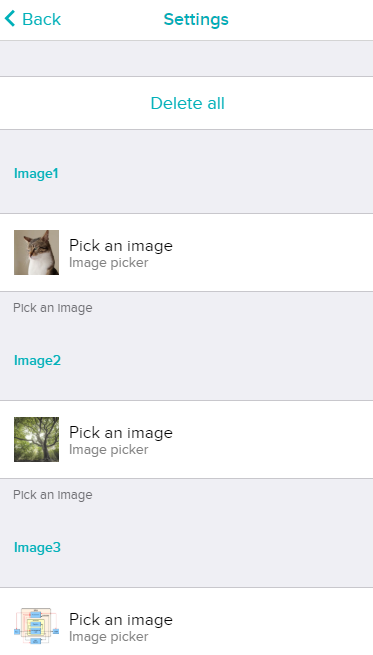
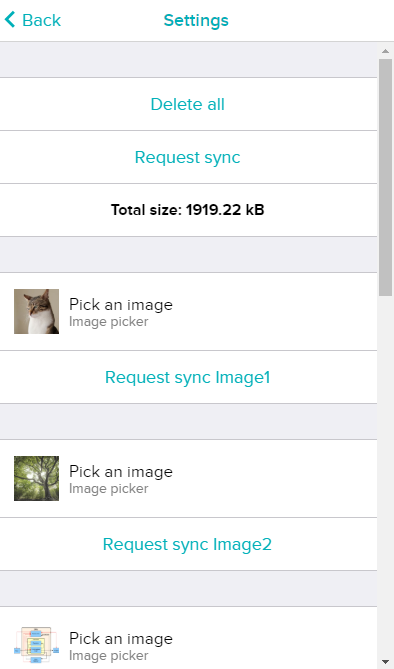
new list, settings changed

diff --git a/app/index.js b/app/index.js
@@ -10,11 +10,22 @@ import * as messaging from "messaging";
 const list = document.getElementById("myList");
 const items = list.getElementsByClassName("list-item");
 items.forEach((element, index) => {
-  var touch = element.getElementById("touch");
-  var text = element.getElementById("text");
-  if(touch != null) {
-    touch.onclick = function(evt) {
-      navigation_goToImageView(text.text);
+  var img1 = element.getElementById("img1");
+  if(img1 != null) {
+    img1.onclick = function(evt) {
+      navigation_goToImageView(img1.href);
+    };
+  }
+  var img2 = element.getElementById("img2");
+  if(img2 != null) {
+    img2.onclick = function(evt) {
+      navigation_goToImageView(img2.href);
+    };
+  }
+  var img3 = element.getElementById("img3");
+  if(img3 != null) {
+    img3.onclick = function(evt) {
+      navigation_goToImageView(img3.href);
     };
   }
 });
@@ -50,8 +61,10 @@ function navigation_goToListView() {
 }
 navigation_goToListView();
 
-function navigation_goToImageView(img_name) {
-  console.log("Go to image view [" + img_name + "]");
+function navigation_goToImageView(img_href) {
+  console.log("Go to image view [" + img_href + "]");
+  const img_name = img_href.substring(img_href.lastIndexOf("/"), img_href.lastIndexOf("."));
+  console.log("Image name: " + img_name);
   list_action.style.display = "none";
   image_action.style.display = "inline";  
   
@@ -112,11 +125,11 @@ function refreshList() {
     var dv = String(dirIter.value);
     if(strStartsWith(dv, "Image")) {
       var name = dv.split(".")[0];
-      var text_item = list_items[index + 1].getElementById("text");
-      text_item.text = name;
-      var img_item = list_items[index + 1].getElementById("img");
+      var img_index = index % 3 + 1;
+      var list_item_index = Math.floor(index / 3);
+      var img_item = list_items[list_item_index + 1].getElementById("img" + img_index);
       img_item.href = "/private/data/"+name+".txi";
-      list_items[index + 1].style.display = "inline";
+      list_items[list_item_index + 1].style.display = "inline";
     }
     index++;
   }
@@ -126,12 +139,17 @@ function refreshList() {
 messaging.peerSocket.addEventListener("message", (evt) => {
   switch(evt.data.type) {
     case 'delete': 
-      for(var i = 1; i <= 20; i++) {
-        if (fs.existsSync("/private/data/Image"+i+".txi")) {
-          console.log("Image"+i + ".txi removed");
-          fs.unlinkSync("Image"+i+".txi");
+      //delete all
+      const listDir = fs.listDirSync("/private/data");
+      var dirIter;
+      while((dirIter = listDir.next()) && !dirIter.done) {
+        var dv = String(dirIter.value);
+        if (fs.existsSync("/private/data/"+dv)) {
+          console.log(dv + " removed");
+          fs.unlinkSync(dv);
         }  
       }
+      //refresh
       refreshList();
       break;
   }

diff --git a/settings/index.jsx b/settings/index.jsx
@@ -1,26 +1,46 @@
+function totalSize(props) {
+  var total = 0;
+  for(var i = 1; i <= 20; ++i) {
+    var img = props.settingsStorage.getItem("Image"+i);
+    if(img != null) {
+      var size = JSON.parse(img).imageUri.length / 1024;
+      total += size;
+    }
+  }
+  return total;
+}
+
+
 function mySettings(props) {
   let screenWidth = props.settingsStorage.getItem("screenWidth");
   let screenHeight = props.settingsStorage.getItem("screenHeight");
 
   var rows = [];
   
-  rows.push(<Button label="Delete all" onClick={() => props.settingsStorage.setItem('delete', 'all')} />);
-  rows.push(<Button label="Request sync" onClick={() => props.settingsStorage.setItem('sync', 'all')} />);
+  rows.push(
+    <Section>
+      <Button label="Delete all" onClick={() => props.settingsStorage.setItem('delete', 'all')} />
+      <Button label="Request sync" onClick={() => props.settingsStorage.setItem('sync', 'all')} />
+      <Text bold align="center">{"Total size: "+ totalSize(props).toFixed(2) + " kB"}</Text>
+    </Section>
+  );
   
   
   for (var i = 1; i <= 20; i++) {
     var item = "Image"+i  
-    rows.push(
-      <ImagePicker
-              title={ item }
-              sublabel="Image picker"
-              settingsKey={ item }
-              imageWidth={ screenWidth }
-              imageHeight={ screenHeight }
-            />
-    );
     const str = new String("Image"+i);
-    rows.push(<Button label={"Request sync " + item} onClick={() => props.settingsStorage.setItem('sync', str.valueOf())} />);
+    rows.push(
+      <Section>
+        <ImagePicker
+                title={ item }
+                sublabel="Image picker"
+                settingsKey={ item }
+                imageWidth={ screenWidth }
+                imageHeight={ screenHeight }
+              />
+        <Button label={"Request sync " + item} onClick={() => props.settingsStorage.setItem('sync', str.valueOf())} />
+      </Section>
+    );
     if(props.settingsStorage.getItem(item) == null) break;
   }
   

diff --git a/companion/index.js b/companion/index.js
@@ -25,6 +25,10 @@ settingsStorage.onchange = function(evt) {
     case 'sync':
       console.log("Sync " + evt.newValue);
       if(evt.newValue == 'all') {
+         //send delete mess to wath
+        if (messaging.peerSocket.readyState === messaging.peerSocket.OPEN) {
+          messaging.peerSocket.send({type: 'delete'});
+        }
         //all
         for(var i = 1; i <= 20; ++i) {
           var img = settingsStorage.getItem("Image"+i);

diff --git a/resources/styles.css b/resources/styles.css
@@ -9,24 +9,10 @@
   font-size: 24;
 }
 
-.line {
-  height: 3;
-  width: 100%;
-  fill: #222222;
-  y: 100%-6;
-}
-
 .header text {
   font-weight: bold;
   fill: fb-purple;
   font-size: 40;
-}
-
-.bg {
-  width: 100%;
-  height: 100%;
-  x: 0;
-  y: 0;
 }
 
 #touch {

diff --git a/README.md b/README.md
@@ -17,11 +17,10 @@ You can add new images in the settings of this application on your mobile in the
 ## List of pictures
 <div>
   <img src="./doc/img2.png" width="30%">
-  <img src="./doc/img4.png" width="30%">
 </div>
 
 ## Image display
 <div>
   <img src="./doc/img3.png" width="30%">
-  <img src="./doc/img5.png" width="30%">
+  <img src="./doc/img4.png" width="30%">
 </div>
